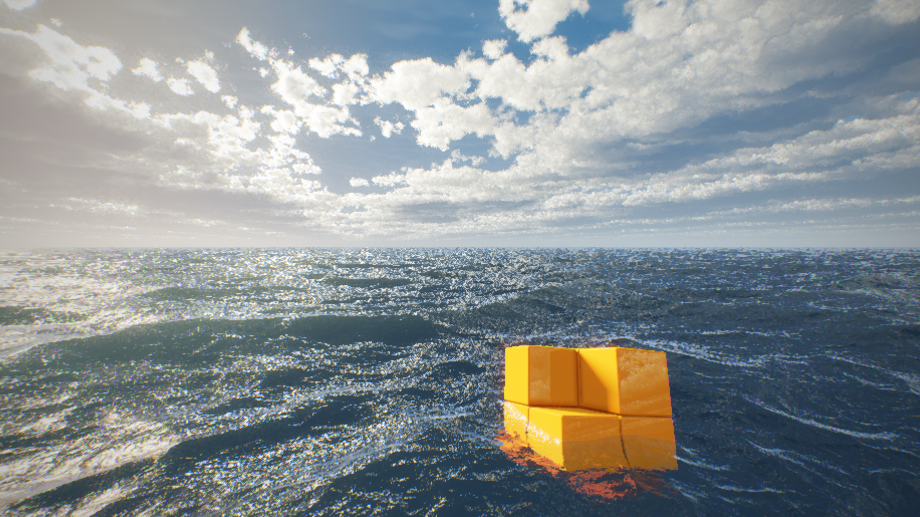
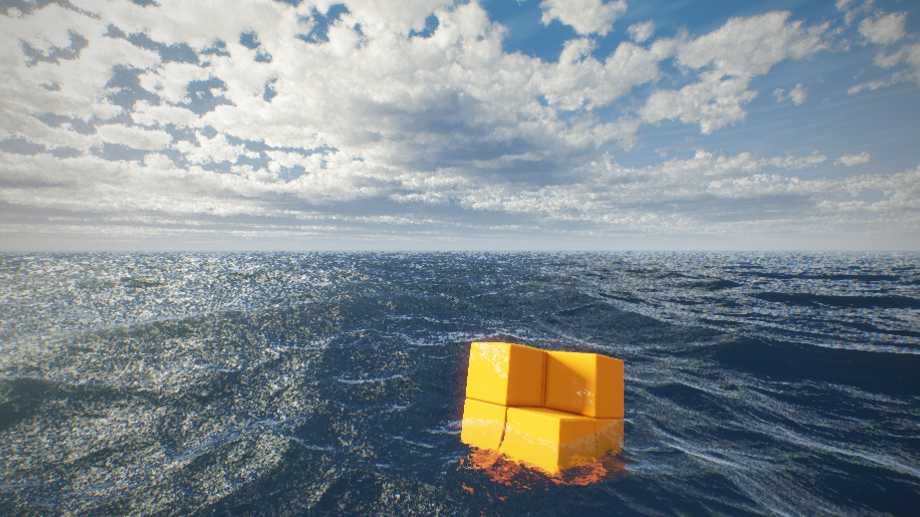
Drive Enscape ocean shader from editor camera and scene controls

diff --git a/src/render/EnscapeCubeRenderer.cpp b/src/render/EnscapeCubeRenderer.cpp
@@ -9,6 +9,8 @@
 #include <glad/gl.h>
 
 #include "render/RenderTarget.h"
+#include "render/Camera.h"
+#include "render/Renderer.h"
 #include "render/Shader.h"
 
 namespace {
@@ -130,13 +132,33 @@ void EnscapeCubeRenderer::resize(int width, int height) {
 }
 
 void EnscapeCubeRenderer::draw(Shader& shader, unsigned int framebuffer,
-    int width, int height, float timeSeconds, unsigned int fullscreenVertexArray) {
+    int width, int height, float timeSeconds, unsigned int fullscreenVertexArray,
+    const Camera& camera, const EnscapeCubeSettings& parameters) {
     glBindFramebuffer(GL_FRAMEBUFFER, framebuffer);
     glViewport(0, 0, width, height);
     shader.use();
     shader.setVec3("iResolution", {static_cast<float>(width), static_cast<float>(height), 1.0f});
     shader.setFloat("iTime", timeSeconds);
-    shader.setVec4("iMouse", {0.0f, 0.0f, -1.0f, 0.0f});
+    shader.setVec3("uCameraPosition", camera.position());
+    shader.setVec3("uCameraForward", camera.forwardDirection());
+    shader.setVec3("uCameraRight", camera.rightDirection());
+    shader.setVec3("uCameraUp", camera.upDirection());
+    shader.setFloat("uCameraTanHalfFov",
+        std::tan(camera.fieldOfView() * 0.008726646259971648f));
+    shader.setFloat("uCameraNear", camera.nearPlane());
+    shader.setFloat("uWaveHeight", parameters.waveHeight);
+    shader.setFloat("uWaveFrequency", parameters.waveFrequency);
+    shader.setFloat("uWaveChoppiness", parameters.waveChoppiness);
+    shader.setFloat("uWaveSpeed", parameters.waveSpeed);
+    shader.setFloat("uCloudCoverage", parameters.cloudCoverage);
+    shader.setFloat("uReflectionStrength", parameters.reflectionStrength);
+    constexpr float degreesToRadians = 0.017453292519943295f;
+    const float azimuth = parameters.sunAzimuthDegrees * degreesToRadians;
+    const float elevation = parameters.sunElevationDegrees * degreesToRadians;
+    shader.setVec3("uSunDirection", {std::cos(elevation) * std::sin(azimuth),
+        std::sin(elevation), std::cos(elevation) * std::cos(azimuth)});
+    shader.setFloat("uBloomStrength", parameters.bloomStrength);
+    shader.setFloat("uExposure", parameters.exposure);
     shader.setInt("iChannel0", 0);
     shader.setInt("iChannel1", 1);
     shader.setInt("iChannel2", 2);
@@ -145,9 +167,29 @@ void EnscapeCubeRenderer::draw(Shader& shader, unsigned int framebuffer,
     glDrawArrays(GL_TRIANGLES, 0, 3);
 }
 
-void EnscapeCubeRenderer::render(RenderTarget& target, int width, int height,
+void EnscapeCubeRenderer::render(RenderTarget& target, const Camera& camera,
+    const RendererSettings& settings, int width, int height,
     float timeSeconds, unsigned int fullscreenVertexArray) {
     resize(width, height);
+    const glm::mat4 viewProjection = camera.projectionMatrix(static_cast<float>(width) / height)
+        * camera.viewMatrix();
+    if (!cameraValid_) {
+        historyValid_ = false;
+    } else {
+        for (int column = 0; column < 4; ++column) {
+            for (int row = 0; row < 4; ++row) {
+                if (std::abs(viewProjection[column][row] - previousViewProjection_[column][row])
+                    > 1.0e-5f) historyValid_ = false;
+            }
+        }
+    }
+    const auto& parameters = settings.enscapeCube;
+    const std::array<float, 10> parameterKey{parameters.waveHeight,
+        parameters.waveFrequency, parameters.waveChoppiness, parameters.waveSpeed,
+        parameters.cloudCoverage, parameters.reflectionStrength,
+        parameters.sunAzimuthDegrees, parameters.sunElevationDegrees,
+        parameters.bloomStrength, parameters.exposure};
+    if (!parametersValid_ || parameterKey != previousParameters_) historyValid_ = false;
     if (std::abs(timeSeconds - previousTime_) > 0.25f) historyValid_ = false;
     glDisable(GL_DEPTH_TEST);
     glDisable(GL_BLEND);
@@ -158,18 +200,21 @@ void EnscapeCubeRenderer::render(RenderTarget& target, int width, int height,
     glBindTexture(GL_TEXTURE_2D, weatherTexture_);
     glActiveTexture(GL_TEXTURE2);
     glBindTexture(GL_TEXTURE_3D, volumeTexture_);
-    draw(*shaders_[0], framebuffers_[0], width, height, timeSeconds, fullscreenVertexArray);
+    draw(*shaders_[0], framebuffers_[0], width, height, timeSeconds,
+        fullscreenVertexArray, camera, parameters);
 
     glActiveTexture(GL_TEXTURE0);
     glBindTexture(GL_TEXTURE_2D, textures_[0]);
-    draw(*shaders_[1], framebuffers_[1], width, height, timeSeconds, fullscreenVertexArray);
+    draw(*shaders_[1], framebuffers_[1], width, height, timeSeconds,
+        fullscreenVertexArray, camera, parameters);
 
     const unsigned int outputHistory = 2U + (historyIndex_ ^ 1U);
     glActiveTexture(GL_TEXTURE0);
     glBindTexture(GL_TEXTURE_2D, textures_[1]);
     glActiveTexture(GL_TEXTURE1);
     glBindTexture(GL_TEXTURE_2D, historyValid_ ? textures_[2U + historyIndex_] : textures_[1]);
-    draw(*shaders_[2], framebuffers_[outputHistory], width, height, timeSeconds, fullscreenVertexArray);
+    draw(*shaders_[2], framebuffers_[outputHistory], width, height, timeSeconds,
+        fullscreenVertexArray, camera, parameters);
     historyIndex_ ^= 1U;
     historyValid_ = true;
 
@@ -181,7 +226,7 @@ void EnscapeCubeRenderer::render(RenderTarget& target, int width, int height,
     GLint finalFramebuffer = 0;
     glGetIntegerv(GL_DRAW_FRAMEBUFFER_BINDING, &finalFramebuffer);
     draw(*shaders_[3], static_cast<unsigned int>(finalFramebuffer), width, height,
-        timeSeconds, fullscreenVertexArray);
+        timeSeconds, fullscreenVertexArray, camera, parameters);
     glBindFramebuffer(GL_FRAMEBUFFER, 0);
     glUseProgram(0);
     glBindVertexArray(0);
@@ -193,4 +238,8 @@ void EnscapeCubeRenderer::render(RenderTarget& target, int width, int height,
     glBindTexture(GL_TEXTURE_3D, 0);
     glActiveTexture(GL_TEXTURE0);
     previousTime_ = timeSeconds;
+    previousViewProjection_ = viewProjection;
+    previousParameters_ = parameterKey;
+    cameraValid_ = true;
+    parametersValid_ = true;
 }

diff --git a/tests/SceneDocumentTests.cpp b/tests/SceneDocumentTests.cpp
@@ -35,6 +35,16 @@ int main() {
         source.camera.fieldOfViewDegrees = 39.0f;
         source.renderer.renderPath = RenderPath::Deferred;
         source.renderer.enscapeCubeShaderEnabled = true;
+        source.renderer.enscapeCube.waveHeight = 0.93f;
+        source.renderer.enscapeCube.waveFrequency = 0.22f;
+        source.renderer.enscapeCube.waveChoppiness = 5.2f;
+        source.renderer.enscapeCube.waveSpeed = 1.3f;
+        source.renderer.enscapeCube.cloudCoverage = 0.7f;
+        source.renderer.enscapeCube.reflectionStrength = 1.4f;
+        source.renderer.enscapeCube.sunAzimuthDegrees = -75.0f;
+        source.renderer.enscapeCube.sunElevationDegrees = 36.0f;
+        source.renderer.enscapeCube.bloomStrength = 1.6f;
+        source.renderer.enscapeCube.exposure = 1.25f;
         source.renderer.backgroundColor = glm::vec3(0.01f, 0.02f, 0.03f);
         source.renderer.ssaoEnabled = true;
         source.renderer.bloomIntensity = 0.37f;
@@ -215,6 +225,21 @@ int main() {
         require(close(firstLoad.camera.distance, 7.5f), "camera survives first load");
         require(firstLoad.renderer.enscapeCubeShaderEnabled,
             "GLSL study mode survives first load");
+        const auto sameOceanSettings = [](const EnscapeCubeSettings& a,
+            const EnscapeCubeSettings& b) {
+            return close(a.waveHeight, b.waveHeight)
+                && close(a.waveFrequency, b.waveFrequency)
+                && close(a.waveChoppiness, b.waveChoppiness)
+                && close(a.waveSpeed, b.waveSpeed)
+                && close(a.cloudCoverage, b.cloudCoverage)
+                && close(a.reflectionStrength, b.reflectionStrength)
+                && close(a.sunAzimuthDegrees, b.sunAzimuthDegrees)
+                && close(a.sunElevationDegrees, b.sunElevationDegrees)
+                && close(a.bloomStrength, b.bloomStrength)
+                && close(a.exposure, b.exposure);
+        };
+        require(sameOceanSettings(firstLoad.renderer.enscapeCube,
+            source.renderer.enscapeCube), "GLSL ocean controls survive first load");
 
         require(saveSceneDocument(scenePath, firstLoad, error), error.c_str());
         SceneDocument secondLoad;
@@ -226,6 +251,8 @@ int main() {
         require(close(secondLoad.renderer.bloomIntensity, 0.37f), "renderer settings survive repeated load");
         require(secondLoad.renderer.enscapeCubeShaderEnabled,
             "GLSL study mode survives repeated load");
+        require(sameOceanSettings(secondLoad.renderer.enscapeCube,
+            source.renderer.enscapeCube), "GLSL ocean controls survive repeated load");
         require(secondLoad.renderer.shadingMode == ShadingMode::Stylized
                 && secondLoad.renderer.stylizedPreset == StylizedPreset::NightAurora
                 && secondLoad.renderer.stylizedBandCount == 4
@@ -289,8 +316,13 @@ int main() {
                 }
                 if (entry.path().filename() == "03_enscape_ocean_study.myscene") {
                     require(example.entities.empty()
-                        && example.renderer.enscapeCubeShaderEnabled,
-                        "ocean study must use the isolated four-pass GLSL renderer");
+                        && example.renderer.enscapeCubeShaderEnabled
+                        && close(example.camera.target.x, -2.28f)
+                        && close(example.camera.target.z, -0.64f)
+                        && close(example.camera.fieldOfViewDegrees, 71.0753556f)
+                        && close(example.renderer.enscapeCube.waveHeight, 0.6f)
+                        && close(example.renderer.enscapeCube.sunAzimuthDegrees, -53.1301f),
+                        "ocean study must save the engine camera and GLSL defaults");
                 }
                 if (entry.path().filename() == "18_atmosphere_sky.myscene") {
                     require(!example.renderer.atmosphere.cloudHalfResolution

diff --git a/src/scene/SceneDocument.cpp b/src/scene/SceneDocument.cpp
@@ -45,6 +45,16 @@ void writeMatrix(Writer& writer, const glm::mat4& value) {
 void writeRendererSettings(Writer& writer, const RendererSettings& settings) {
     writer.StartObject();
     writer.Key("enscapeCubeShaderEnabled"); writer.Bool(settings.enscapeCubeShaderEnabled);
+    writer.Key("enscapeWaveHeight"); writer.Double(settings.enscapeCube.waveHeight);
+    writer.Key("enscapeWaveFrequency"); writer.Double(settings.enscapeCube.waveFrequency);
+    writer.Key("enscapeWaveChoppiness"); writer.Double(settings.enscapeCube.waveChoppiness);
+    writer.Key("enscapeWaveSpeed"); writer.Double(settings.enscapeCube.waveSpeed);
+    writer.Key("enscapeCloudCoverage"); writer.Double(settings.enscapeCube.cloudCoverage);
+    writer.Key("enscapeReflectionStrength"); writer.Double(settings.enscapeCube.reflectionStrength);
+    writer.Key("enscapeSunAzimuthDegrees"); writer.Double(settings.enscapeCube.sunAzimuthDegrees);
+    writer.Key("enscapeSunElevationDegrees"); writer.Double(settings.enscapeCube.sunElevationDegrees);
+    writer.Key("enscapeBloomStrength"); writer.Double(settings.enscapeCube.bloomStrength);
+    writer.Key("enscapeExposure"); writer.Double(settings.enscapeCube.exposure);
 #define WRITE_FLOAT(field) writer.Key(#field); writer.Double(settings.field)
 #define WRITE_INT(field) writer.Key(#field); writer.Int(settings.field)
 #define WRITE_BOOL(field) writer.Key(#field); writer.Bool(settings.field)
@@ -285,6 +295,26 @@ void readRendererSettings(const scene_json::Value& value, RendererSettings& sett
 #define READ_BOOL(field) settings.field = readBool(value, #field, settings.field)
 #define READ_VEC3(field) settings.field = readVec3(value, #field, settings.field)
     READ_BOOL(enscapeCubeShaderEnabled);
+    settings.enscapeCube.waveHeight = std::clamp(readFloat(value, "enscapeWaveHeight",
+        settings.enscapeCube.waveHeight), 0.05f, 1.5f);
+    settings.enscapeCube.waveFrequency = std::clamp(readFloat(value, "enscapeWaveFrequency",
+        settings.enscapeCube.waveFrequency), 0.04f, 0.5f);
+    settings.enscapeCube.waveChoppiness = std::clamp(readFloat(value, "enscapeWaveChoppiness",
+        settings.enscapeCube.waveChoppiness), 1.0f, 8.0f);
+    settings.enscapeCube.waveSpeed = std::clamp(readFloat(value, "enscapeWaveSpeed",
+        settings.enscapeCube.waveSpeed), 0.0f, 2.0f);
+    settings.enscapeCube.cloudCoverage = std::clamp(readFloat(value, "enscapeCloudCoverage",
+        settings.enscapeCube.cloudCoverage), 0.0f, 2.0f);
+    settings.enscapeCube.reflectionStrength = std::clamp(readFloat(value,
+        "enscapeReflectionStrength", settings.enscapeCube.reflectionStrength), 0.0f, 2.0f);
+    settings.enscapeCube.sunAzimuthDegrees = std::clamp(readFloat(value,
+        "enscapeSunAzimuthDegrees", settings.enscapeCube.sunAzimuthDegrees), -180.0f, 180.0f);
+    settings.enscapeCube.sunElevationDegrees = std::clamp(readFloat(value,
+        "enscapeSunElevationDegrees", settings.enscapeCube.sunElevationDegrees), 1.0f, 85.0f);
+    settings.enscapeCube.bloomStrength = std::clamp(readFloat(value,
+        "enscapeBloomStrength", settings.enscapeCube.bloomStrength), 0.0f, 3.0f);
+    settings.enscapeCube.exposure = std::clamp(readFloat(value, "enscapeExposure",
+        settings.enscapeCube.exposure), 0.25f, 3.0f);
     READ_VEC3(backgroundColor); READ_VEC3(baseColor); READ_VEC3(lightDirection);
     READ_FLOAT(ambientStrength); READ_FLOAT(diffuseStrength); READ_FLOAT(specularStrength);
     READ_FLOAT(shininess); READ_INT(msaaSamples);

diff --git a/src/app/Application.cpp b/src/app/Application.cpp
@@ -2019,8 +2019,27 @@ void Application::drawInspectorPanel() {
                 ImGui::EndDisabled();
             }
             if (EditorUi::section("Lighting & environment", true)) {
-            if (EditorUi::Checkbox("Enscape Cube GLSL study", &rendererSettings_.enscapeCubeShaderEnabled)) {
+            if (EditorUi::Checkbox(EditorUi::label("Enscape Cube GLSL study"), &rendererSettings_.enscapeCubeShaderEnabled)) {
                 renderer_->invalidateTemporalHistory();
+            }
+            if (rendererSettings_.enscapeCubeShaderEnabled) {
+                auto& ocean = rendererSettings_.enscapeCube;
+                ImGui::SeparatorText(EditorUi::chinese ? "GLSL 海面参数" : "GLSL ocean controls");
+                bool changed = false;
+                changed |= EditorUi::SliderFloat(EditorUi::label("GLSL wave height"), &ocean.waveHeight, 0.05f, 1.5f, "%.2f");
+                changed |= EditorUi::SliderFloat(EditorUi::label("GLSL wave frequency"), &ocean.waveFrequency, 0.04f, 0.5f, "%.3f");
+                changed |= EditorUi::SliderFloat(EditorUi::label("GLSL choppiness"), &ocean.waveChoppiness, 1.0f, 8.0f, "%.2f");
+                changed |= EditorUi::SliderFloat(EditorUi::label("GLSL wave speed"), &ocean.waveSpeed, 0.0f, 2.0f, "%.2f");
+                changed |= EditorUi::SliderFloat(EditorUi::label("GLSL cloud coverage"), &ocean.cloudCoverage, 0.0f, 2.0f, "%.2f");
+                changed |= EditorUi::SliderFloat(EditorUi::label("GLSL reflection"), &ocean.reflectionStrength, 0.0f, 2.0f, "%.2f");
+                changed |= EditorUi::SliderFloat(EditorUi::label("GLSL sun azimuth"), &ocean.sunAzimuthDegrees, -180.0f, 180.0f, "%.0f deg");
+                changed |= EditorUi::SliderFloat(EditorUi::label("GLSL sun elevation"), &ocean.sunElevationDegrees, 1.0f, 85.0f, "%.0f deg");
+                changed |= EditorUi::SliderFloat(EditorUi::label("GLSL bloom"), &ocean.bloomStrength, 0.0f, 3.0f, "%.2f");
+                changed |= EditorUi::SliderFloat(EditorUi::label("GLSL exposure"), &ocean.exposure, 0.25f, 3.0f, "%.2f");
+                if (changed) renderer_->invalidateTemporalHistory();
+                ImGui::TextWrapped("%s", EditorUi::chinese
+                    ? "此模式使用 GLSL 内部光照；普通 SSAO 参数不适用。"
+                    : "This mode uses GLSL lighting; regular SSAO controls do not apply.");
             }
             EditorUi::Checkbox("Metallic-roughness PBR", &rendererSettings_.pbrEnabled);
             EditorUi::Checkbox("Image-based lighting", &rendererSettings_.iblEnabled);

diff --git a/src/render/EnscapeCubeRenderer.h b/src/render/EnscapeCubeRenderer.h
@@ -4,8 +4,13 @@
 #include <filesystem>
 #include <memory>
 
+#include <glm/mat4x4.hpp>
+
+class Camera;
 class RenderTarget;
 class Shader;
+struct RendererSettings;
+struct EnscapeCubeSettings;
 
 // Isolated four-pass Shadertoy study. It owns only GL resources; the scene
 // document remains the switch and the ordinary renderer handles other scenes.
@@ -16,7 +21,8 @@ public:
     EnscapeCubeRenderer(const EnscapeCubeRenderer&) = delete;
     EnscapeCubeRenderer& operator=(const EnscapeCubeRenderer&) = delete;
 
-    void render(RenderTarget& target, int width, int height, float timeSeconds,
+    void render(RenderTarget& target, const Camera& camera,
+        const RendererSettings& settings, int width, int height, float timeSeconds,
         unsigned int fullscreenVertexArray);
     void invalidateHistory() { historyValid_ = false; }
 
@@ -24,7 +30,8 @@ private:
     void resize(int width, int height);
     void makeNoiseTextures();
     void draw(Shader& shader, unsigned int framebuffer, int width, int height,
-        float timeSeconds, unsigned int fullscreenVertexArray);
+        float timeSeconds, unsigned int fullscreenVertexArray,
+        const Camera& camera, const EnscapeCubeSettings& parameters);
 
     std::array<std::unique_ptr<Shader>, 4> shaders_;
     std::array<unsigned int, 4> textures_{};
@@ -35,5 +42,9 @@ private:
     int height_{0};
     unsigned int historyIndex_{0};
     bool historyValid_{false};
+    bool cameraValid_{false};
+    bool parametersValid_{false};
+    glm::mat4 previousViewProjection_{1.0f};
+    std::array<float, 10> previousParameters_{};
     float previousTime_{0.0f};
 };

diff --git a/src/app/EditorUi.h b/src/app/EditorUi.h
@@ -108,6 +108,17 @@ inline const char* label(const char* key) {
     {"Camera", "相机###Camera"},
     {"Runtime", "运行信息###Runtime"},
     {"Lighting & environment", "光照与环境###Lighting & environment"},
+    {"Enscape Cube GLSL study", "Enscape Cube GLSL 场景###Enscape Cube GLSL study"},
+    {"GLSL wave height", "GLSL 波高###GLSL wave height"},
+    {"GLSL wave frequency", "GLSL 波纹频率###GLSL wave frequency"},
+    {"GLSL choppiness", "GLSL 波峰陡度###GLSL choppiness"},
+    {"GLSL wave speed", "GLSL 波浪速度###GLSL wave speed"},
+    {"GLSL cloud coverage", "GLSL 云量###GLSL cloud coverage"},
+    {"GLSL reflection", "GLSL 反射强度###GLSL reflection"},
+    {"GLSL sun azimuth", "GLSL 太阳方位角###GLSL sun azimuth"},
+    {"GLSL sun elevation", "GLSL 太阳仰角###GLSL sun elevation"},
+    {"GLSL bloom", "GLSL 泛光强度###GLSL bloom"},
+    {"GLSL exposure", "GLSL 曝光###GLSL exposure"},
     {"Render diagnostics", "渲染诊断###Render diagnostics"},
     {"Frame", "聚焦###Frame"},
     {"Save PNG", "保存 PNG###Save PNG"},

diff --git a/src/render/Renderer.h b/src/render/Renderer.h
@@ -124,8 +124,22 @@ struct GpuPassTiming {
     std::size_t measurementSerial{0};
 };
 
+struct EnscapeCubeSettings {
+    float waveHeight{0.6f};
+    float waveFrequency{0.16f};
+    float waveChoppiness{4.0f};
+    float waveSpeed{0.8f};
+    float cloudCoverage{1.0f};
+    float reflectionStrength{1.0f};
+    float sunAzimuthDegrees{143.1301f};
+    float sunElevationDegrees{24.2277f};
+    float bloomStrength{1.0f};
+    float exposure{1.0f};
+};
+
 struct RendererSettings {
     bool enscapeCubeShaderEnabled{false};
+    EnscapeCubeSettings enscapeCube;
     glm::vec3 backgroundColor{0.055f, 0.065f, 0.085f};
     glm::vec3 baseColor{1.0f};
     glm::vec3 lightDirection{-0.45f, -0.8f, -0.35f};

diff --git a/src/render/Renderer.cpp b/src/render/Renderer.cpp
@@ -231,7 +231,7 @@ void Renderer::render(
             enscapeCubeRenderer_ = std::make_unique<EnscapeCubeRenderer>(
                 shaderDirectory_);
         }
-        enscapeCubeRenderer_->render(*renderTarget_, width, height,
+        enscapeCubeRenderer_->render(*renderTarget_, camera, settings, width, height,
             settings.water.timeSeconds, fullscreenVertexArray_);
         activePassNames_ = {"Enscape Cube: ocean and clouds", "Enscape Cube: bloom and tone map",
             "Enscape Cube: TAA", "Enscape Cube: final image"};

diff --git a/docs/enscape-ocean-study.md b/docs/enscape-ocean-study.md
@@ -4,9 +4,17 @@
 
 四段源码及 OpenGL 3.3 包装放在 `shaders/third_party/enscape_cube/`。源文件注明 **CC BY-NC-SA 3.0**，并署名 Thomas / @Thomas_ensc；海面部分引用 Alexander Alekseev（TDM）的 Seascape。此目录独立于项目 MIT 许可，详情见该目录的 `LICENSE.md` 和根目录 `THIRD_PARTY_NOTICES.md`。原 Shadertoy 的纹理通道资源没有随文本提供，运行时生成固定种子的 256² 天气纹理和 32³ 噪声纹理，因此不会逐像素等同原作。
 
-本次只做视觉复刻：方块是 Buffer A 内的 SDF，与编辑器实体/物理系统没有连接。为避免暗示已实现浮力，移除了原着色器按波浪调整方块姿态的代码，方块保持固定倾角和高度。海面、折射和接触效果仍按原 GLSL 绘制。另将 TAA 邻域采样限制在图像边界内，并在画面尺寸、场景或时间跳变时清除历史。该模式使用自己的时域抗锯齿，渲染目标按 1× 分配，不再为未使用的 MSAA 缓冲付费。
+方块仍是 Buffer A 内的 SDF，与编辑器实体/物理系统没有连接，也不随波浪做浮力运动。海面、折射和接触效果仍按原 GLSL 绘制。该模式使用自己的时域抗锯齿，渲染目标按 1× 分配。
+
+相机射线现在由项目 `Camera` 的位置、前/右/上基向量及 FOV 生成，因此编辑器的轨道旋转、平移、WASD 移动、缩放和 FOV 设置都会改变 GLSL 画面。示例场景保存了与参考构图接近的初始机位和左侧日光。相机矩阵、视口大小、时间或 GLSL 参数变化时会清除 TAA 历史，避免移动中的旧画面残影。相机下潜时改用简化水下透射与雾色分支，避免原代码在水面下出现灰色空白；这不是完整的水下物理模拟。
+
+Inspector 的 **Lighting & environment → GLSL 海面参数** 可调整波高、波纹频率、波峰陡度、波速、云量、反射强度、太阳方位/仰角、泛光和曝光。数值随 `.myscene` 保存与重新加载。普通渲染路径的 SSAO、HDRI 天空盒和海面滑块仍不作用于此独立 GLSL 模式。
 
 ![GLSL 海面研究场景](media/p1a-enscape-ocean-study.png)
+
+![相机下潜后的简化水下视图](media/p1a-enscape-underwater.png)
+
+水下图用同一场景的临时副本，将 `camera.target.y` 改为 `-1.2`，保持 yaw、pitch、distance 不变；以同样的 `920×517` 截图命令采集，TAA 预热 2 帧。
 
 图示在 NVIDIA RTX 4060 Laptop、OpenGL 3.3、`920×517`、保存时间 `1.25 s`、TAA 预热 4 帧后采集：
 
@@ -20,4 +28,4 @@ $env:MYRENDERER_SCREENSHOT_WARMUP='4'
 build-ci-msvc/Release/MyRenderer.exe assets/scenes/03_enscape_ocean_study.myscene
 ```
 
-该 GLSL 场景目前使用着色器内置相机和固定方块，Inspector 的常规海面、天空盒、SSAO 等设置不作用于此模式。后续如需保留这些编辑能力，需要将着色器参数和镜头输入映射到共享场景模型。由于 Buffer A 逐像素执行云层积分与海面高度场追踪，实时成本明显高于原网格海面路径；本阶段以参考效果验证为先。
+Buffer A 逐像素执行云层积分与海面高度场追踪，实时成本明显高于原网格海面路径；本阶段以视觉与交互验证为先。
